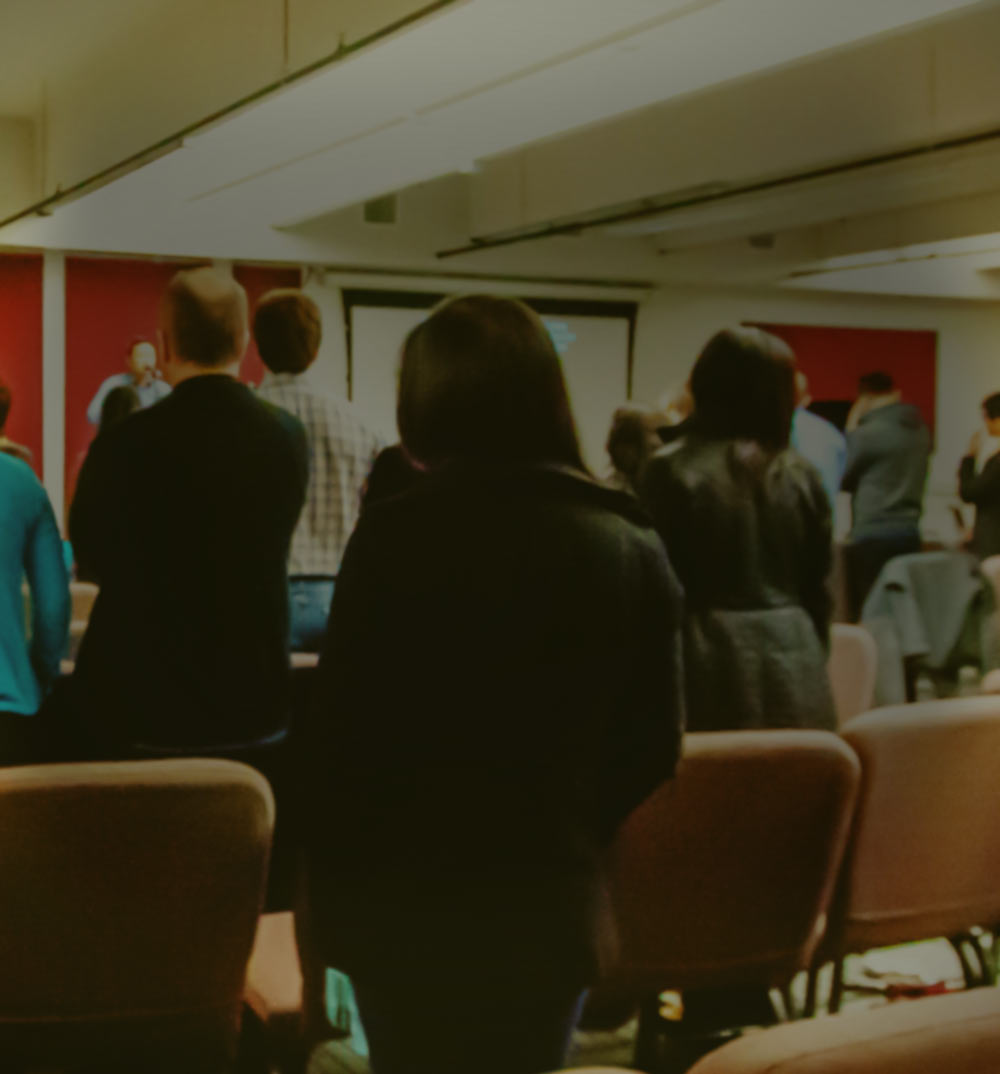
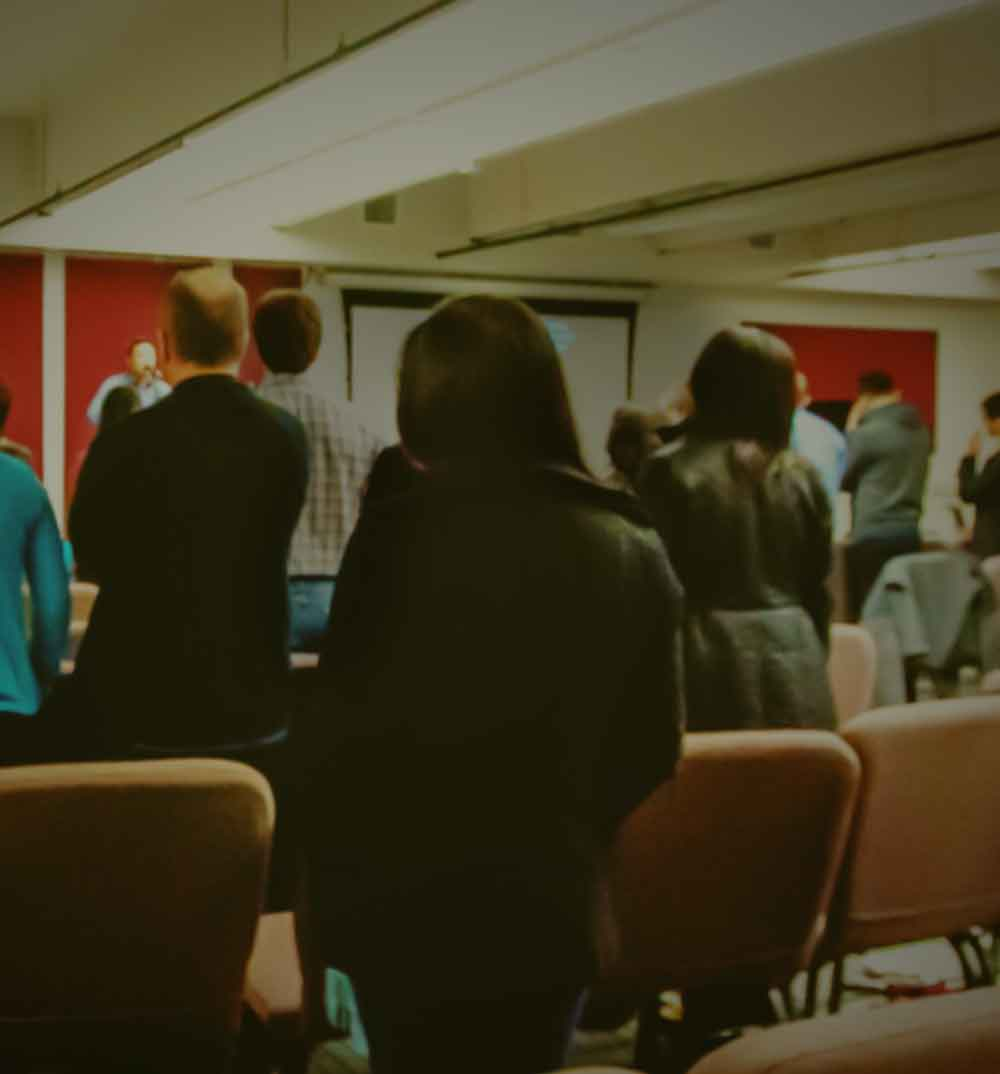
Updated images, added ministries backgroung image + updated text.

diff --git a/flat_files/css/lw14.css b/flat_files/css/lw14.css
@@ -128,7 +128,7 @@ iframe {
   text-align: center;
   text-shadow: 0 0 1px rgba(0, 0, 0, 0.8);
   -webkit-font-smoothing: antialiased;
-  background: #fafbfc url('../img/landing-intro-bg-2-mobile.jpg') no-repeat scroll center top;
+  background: #fafbfc url('../img/landing-intro-bg-2-mobile.jpg') no-repeat scroll center center;
   background-size: cover;
 }
 .lw14-landing-intro-title {
@@ -155,7 +155,7 @@ iframe {
   letter-spacing: 0.05em;
   text-shadow: 0 0 1px rgba(0, 0, 0, 0.8);
   -webkit-font-smoothing: antialiased;
-  background: #3a3a3a url('../img/landing-about-bg.jpg') no-repeat scroll center top;
+  background: #3d3d3d url('../img/landing-about-bg-2.jpg') no-repeat scroll center top;
   background-size: cover;
 }
 .lw14-landing-about-title {
@@ -183,7 +183,11 @@ iframe {
 }
 .lw14-landing-ministries {
   padding-bottom: 4em;
+  color: #fafbfc;
+  text-shadow: 0 0 1px rgba(0, 0, 0, 0.8);
   text-align: center;
+  -webkit-font-smoothing: antialiased;
+  background: #fafbfc url('../img/landing-ministries-bg-mobile.jpg') no-repeat scroll center center;
 }
 .lw14-landing-ministries-title {
   padding-top: 94px;
@@ -263,6 +267,7 @@ iframe {
   }
   .lw14-landing-intro {
     min-height: 90%;
+    background-position: center top;
   }
   .lw14-landing-about-closing-text {
     letter-spacing: .1em;
@@ -299,6 +304,7 @@ iframe {
   .lw14-landing-intro {
     min-height: 90%;
     background-image: url('../img/landing-intro-bg-2.jpg');
+    background-position: center center;
   }
   .lw14-landing-intro-title {
     padding-top: 88px;
@@ -308,8 +314,14 @@ iframe {
   .lw14-landing-intro-text {
     font-size: 1.2em;
   }
+  .lw14-landing-about {
+    background-position: left top;
+  }
   .lw14-landing-about-closing-text {
     font-size: 1.2em;
+  }
+  .lw14-landing-ministries {
+    background: #fafbfc url('../img/landing-ministries-bg.jpg') no-repeat scroll center center;
   }
   .lw14-landing-ministries-title {
     padding-top: 92px;

diff --git a/flat_files/css/lw14.less b/flat_files/css/lw14.less
@@ -5,7 +5,7 @@
 @bg-light: #fafbfc;
 @bg-light-rgba: rgba( 250, 251, 252, 0.95 );
 @bg-blue: #e0f5ff;
-@bg-dark: #3a3a3a;
+@bg-dark: #3d3d3d;
 @default-text: #545454;
 
 // foundation overrides
@@ -63,7 +63,7 @@ iframe { max-width: 100%; }
 	text-align: center;
 	text-shadow: 0 0 1px rgba( 0, 0, 0, 0.8 );
 	-webkit-font-smoothing: antialiased;
-	background: @bg-light url( '@{img_dir}/landing-intro-bg-2-mobile.jpg' ) no-repeat scroll center top;
+	background: @bg-light url( '@{img_dir}/landing-intro-bg-2-mobile.jpg' ) no-repeat scroll center center;
 	background-size: cover;
 
 	&-title {
@@ -86,7 +86,7 @@ iframe { max-width: 100%; }
 	text-shadow: 0 0 1px rgba( 0, 0, 0, 0.8 ); // makes the text stand out more (too thin w/out it)
 	-webkit-font-smoothing: antialiased;
 
-	background: @bg-dark url( '@{img_dir}/landing-about-bg.jpg' ) no-repeat scroll center top;
+	background: @bg-dark url( '@{img_dir}/landing-about-bg-2.jpg' ) no-repeat scroll center top;
 	background-size: cover;
 
 	&-title {
@@ -104,7 +104,11 @@ iframe { max-width: 100%; }
 
 .lw14-landing-ministries {
 	padding-bottom: 4em; // as opposed to 5em, because the paragraphs have a margin
+	color: @bg-light;
+	text-shadow: 0 0 1px rgba( 0, 0, 0, 0.8 ); // makes the text stand out more (too thin w/out it)
 	text-align: center;
+	-webkit-font-smoothing: antialiased;
+	background: @bg-light url( '@{img_dir}/landing-ministries-bg-mobile.jpg' ) no-repeat scroll center center;
 
 	&-title {
 		padding-top: 94px;

diff --git a/flat_files/css/lw14-large.less b/flat_files/css/lw14-large.less
@@ -17,6 +17,7 @@ html { font-size: 20px; }
 .lw14-landing-intro {
 	min-height: 90%;
 	background-image: url( '@{img_dir}/landing-intro-bg-2.jpg' );
+	background-position: center center;
 
 	&-title {
 		padding-top: 88px; // 50px nav + 50px padding needed = 100px. but the line height makes up for some of that 2nd 50px.
@@ -27,6 +28,8 @@ html { font-size: 20px; }
 }
 
 .lw14-landing-about {
+	background-position: left top;
+
 	&-closing-text {
 		font-size: 1.2em;
 		// margin-left: 143px;
@@ -35,6 +38,8 @@ html { font-size: 20px; }
 }
 
 .lw14-landing-ministries {
+	background: @bg-light url( '@{img_dir}/landing-ministries-bg.jpg' ) no-repeat scroll center center;
+
 	&-title { padding-top: 92px; }
 
 	& &-list-item { padding-right: 1em; padding-bottom: 0; padding-left: 1em; }

diff --git a/flat_files/css/lw14-medium.less b/flat_files/css/lw14-medium.less
@@ -17,6 +17,7 @@
 
 .lw14-landing-intro {
 	min-height: 90%;
+	background-position: center top;
 }
 
 .lw14-landing-about {
